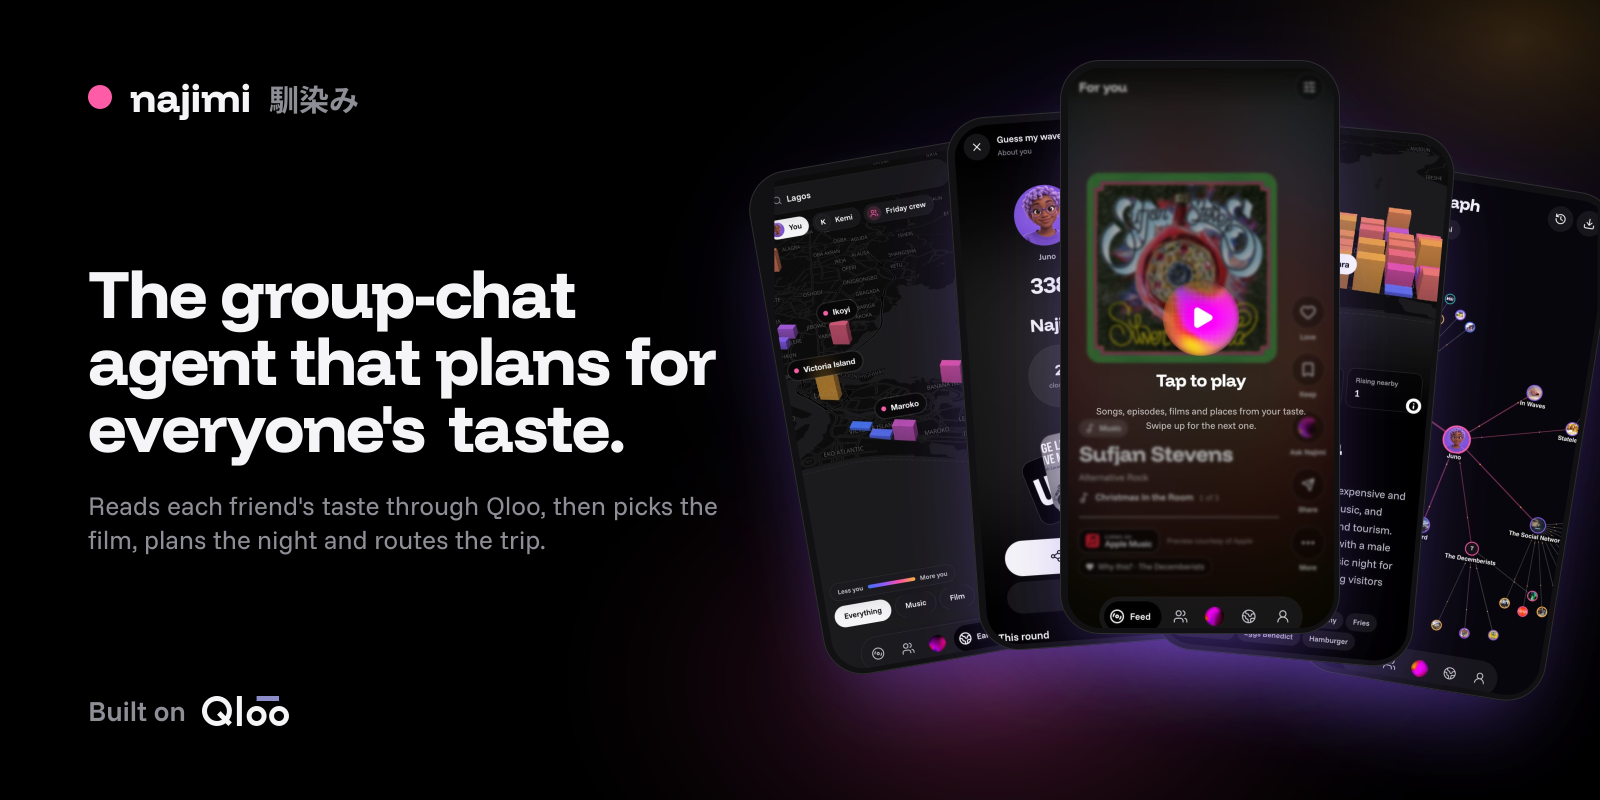
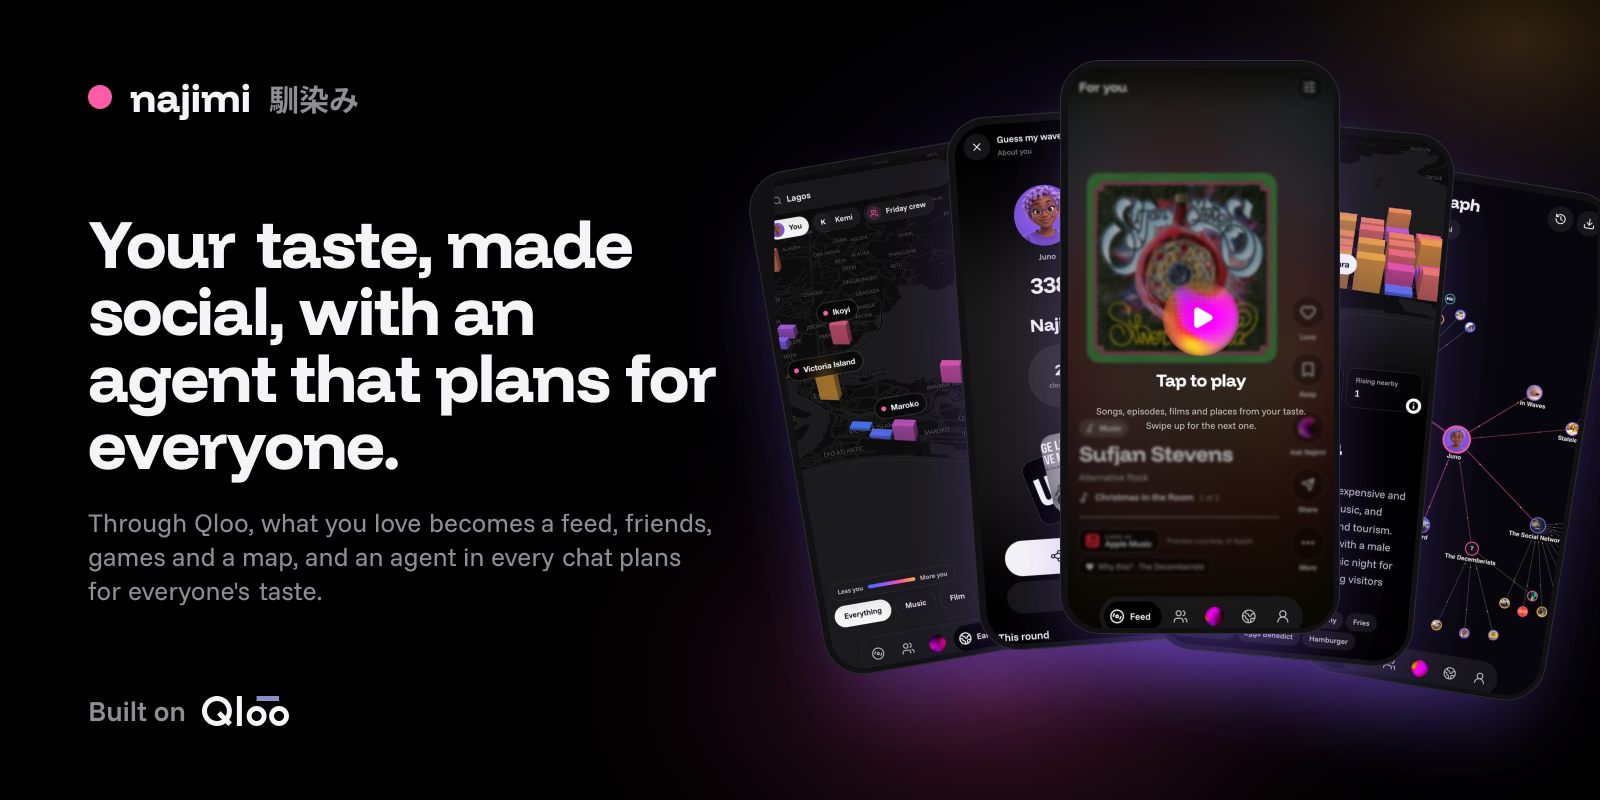
One hero for the whole product, with the agent as its engine
Motto: Make more of what you love.
Headline: Your taste, made social, with an agent that plans for everyone.
Subheadline: Through Qloo, what you love becomes a feed, friends, games and a
map, and an agent in every chat plans nights and trips for everyone's taste.

The group-chat line shrank Najimi to the judged feature; the living-taste line
that followed left the agent out. The new pair names the whole product and
keeps the theme visible. Applied to the README (banner, title, first
paragraph, demo section, hackathon rows), the banner image, the app's
metadata, landing hero, manifest, invite and Wrapped previews, the privacy
lead, the docs home and guide, and the Devpost fields and story. The README
also gains this week's data downloads and business moves, and says plainly
what the downloads can't carry. On phones the landing's words now sit inside
the ring of artwork.

Changed region(s): [[0.0312, 0.2812, 0.4688, 0.75]]

diff --git a/apps/docs/app/(home)/page.tsx b/apps/docs/app/(home)/page.tsx
@@ -157,11 +157,11 @@ export default function Home() {
         <div className="mx-auto flex max-w-3xl flex-col items-center text-center">
           <Orb size={96} label="Najimi" />
           <h1 className="mt-7 font-display text-[clamp(2.6rem,7vw,5rem)] leading-[0.98] font-extrabold tracking-[-0.03em]">
-            The group-chat agent that plans for everyone's taste.
+            Your taste, made social, with an agent that plans for everyone.
           </h1>
           <p className="mt-6 max-w-2xl text-[17px] leading-relaxed text-fd-muted-foreground sm:text-lg">
-            Najimi reads each friend's taste through Qloo, then picks the film, plans the night and
-            routes the trip, showing why each fits. These are its docs.
+            Through Qloo, what you love becomes a feed, friends, games and a map, and an agent in
+            every chat plans nights and trips for everyone's taste. These are its docs.
           </p>
           <div className="mt-8 flex flex-wrap items-center justify-center gap-3">
             <a

diff --git a/apps/web/app/[locale]/page.tsx b/apps/web/app/[locale]/page.tsx
@@ -72,11 +72,12 @@ async function Ring({
     .slice(0, 18)
   return (
     <TasteRing art={art}>
-      <div className="pointer-events-none flex w-full max-w-2xl flex-col items-center gap-6 text-center">
-        <h1 className="max-w-[16ch] font-title text-[2.1rem] leading-[1.02] md:max-w-[18ch] md:text-[4rem]">
+      {/* On a phone the words stay inside the ring's oval (about 17rem across), so no card covers them. */}
+      <div className="pointer-events-none flex w-full max-w-[17rem] flex-col items-center gap-5 text-center md:max-w-2xl md:gap-6">
+        <h1 className="font-title text-[1.9rem] leading-[1.02] md:max-w-[18ch] md:text-[4rem]">
           {title}
         </h1>
-        <p className="max-w-xl text-[15px] leading-relaxed text-text-2 md:text-lg">{subtitle}</p>
+        <p className="text-[14px] leading-relaxed text-text-2 md:max-w-xl md:text-lg">{subtitle}</p>
         <Suspense fallback={null}>
           <MainAction start={start} open={open} large />
         </Suspense>

diff --git a/packages/config/src/index.ts b/packages/config/src/index.ts
@@ -7,9 +7,9 @@ export const APP = {
   name: "Najimi",
   /** 馴染み: someone you know well. */
   meaning: "someone you know well",
-  tagline: "The group-chat agent that plans for everyone's taste.",
+  tagline: "Your taste, made social, with an agent that plans for everyone.",
   description:
-    "Najimi is an agent for your group chats: it reads each friend's taste through Qloo, then picks the film, plans the night and routes the trip, showing why each pick fits.",
+    "Najimi is a social taste app. Through Qloo, what you love becomes a feed, friends, games and a map, and Najimi, the agent in every chat, plans nights and trips for everyone's taste, showing why each pick fits.",
   /** The public repository and live URLs, once they exist; links stay hidden until then. */
   repository: null as string | null,
   url: "https://najimi.xyz" as string | null,

diff --git a/apps/docs/lib/site.ts b/apps/docs/lib/site.ts
@@ -5,9 +5,9 @@ export const SITE = {
   title: "Najimi docs",
   /** 馴染み: someone you know well. */
   meaning: "someone you know well",
-  tagline: "The group-chat agent that plans for everyone's taste.",
+  tagline: "Your taste, made social, with an agent that plans for everyone.",
   description:
-    "Najimi is an agent for your group chats: it reads each friend's taste through Qloo, then picks the film, plans the night and routes the trip, showing why each pick fits.",
+    "Najimi is a social taste app. Through Qloo, what you love becomes a feed, friends, games and a map, and Najimi, the agent in every chat, plans nights and trips for everyone's taste, showing why each pick fits.",
   url: "https://docs.najimi.xyz",
   app: "https://najimi.xyz",
   appStart: "https://najimi.xyz/start",

diff --git a/apps/web/scripts/readme-art/make.tsx b/apps/web/scripts/readme-art/make.tsx
@@ -168,11 +168,11 @@ async function banner() {
               letterSpacing: -1.5,
             }}
           >
-            The group-chat agent that plans for everyone's taste.
+            Your taste, made social, with an agent that plans for everyone.
           </div>
           <div style={{ display: "flex", fontSize: 26, color: C.muted, lineHeight: 1.3 }}>
-            Reads each friend's taste through Qloo, then picks the film, plans the night and routes
-            the trip.
+            Through Qloo, what you love becomes a feed, friends, games and a map, and an agent in
+            every chat plans for everyone's taste.
           </div>
         </div>
         <div

diff --git a/apps/web/app/[locale]/privacy/page.tsx b/apps/web/app/[locale]/privacy/page.tsx
@@ -14,7 +14,7 @@ export default function PrivacyPage() {
   return (
     <LegalPage
       title="Privacy"
-      lead="Najimi is a taste app and an agent for your group chats. This is what it keeps about you, what it sends to other services and why, who can see your taste, and how to delete all of it."
+      lead="Najimi is a social taste app with an agent in every chat. This is what it keeps about you, what it sends to other services and why, who can see your taste, and how to delete all of it."
     >
       <Part title="What Najimi keeps">
         <ul>

diff --git a/apps/web/app/[locale]/join/[token]/page.tsx b/apps/web/app/[locale]/join/[token]/page.tsx
@@ -14,7 +14,7 @@ export async function generateMetadata({ params }: Props): Promise<Metadata> {
   const images = [{ url: `/api/og/join/${token}`, width: 1200, height: 630 }]
   return {
     title: "Join the circle",
-    description: "The group-chat agent that plans for everyone's taste.",
+    description: "Your taste, made social, with an agent that plans for everyone.",
     robots: { index: false },
     openGraph: { title: "Join the circle on Najimi", images },
     twitter: { card: "summary_large_image", images },

diff --git a/apps/web/app/api/og/wrapped/[token]/[slide]/route.tsx b/apps/web/app/api/og/wrapped/[token]/[slide]/route.tsx
@@ -89,7 +89,7 @@ function Frame({ w, n, children }: { w: Wrapped; n: number; children: React.Reac
             {w.username ? `@${w.username}` : w.name}
           </div>
           <div style={{ display: "flex", fontSize: 28, color: C.muted }}>
-            The group-chat agent that plans for everyone's taste
+            Your taste, made social, with an agent that plans for everyone
           </div>
         </div>
         <div style={{ display: "flex", flexDirection: "column", alignItems: "flex-end", gap: 14 }}>

diff --git a/apps/web/components/landing/taste-ring.tsx b/apps/web/components/landing/taste-ring.tsx
@@ -129,7 +129,7 @@ export function TasteRing({ art, children }: { art: Art[]; children: ReactNode }
           ))}
         </div>
         <motion.div
-          className="absolute inset-0 flex items-center justify-center px-6"
+          className="absolute inset-0 z-10 flex items-center justify-center px-6"
           animate={{
             opacity: phase === "ring" ? 1 - fade : 0,
             y: phase === "ring" ? -morph * size.h * 0.08 : 16,

diff --git a/apps/web/app/manifest.ts b/apps/web/app/manifest.ts
@@ -6,7 +6,7 @@ export default function manifest(): MetadataRoute.Manifest {
   return {
     name: APP.name,
     short_name: APP.name,
-    description: "The group-chat agent that plans for everyone's taste.",
+    description: "Your taste, made social, with an agent that plans for everyone.",
     start_url: "/feed",
     scope: "/",
     display: "standalone",

diff --git a/README.md b/README.md
@@ -1,7 +1,7 @@
 <p align="center">
   <a href="https://najimi.xyz">
     <picture>
-      <img src=".github/assets/banner.png" alt="Najimi · Everyone's taste, one plan. The group-chat agent that plans for everyone's taste." width="100%">
+      <img src=".github/assets/banner.png" alt="Najimi · Make more of what you love. Your taste, made social, with an agent that plans for everyone." width="100%">
     </picture>
   </a>
 </p>
@@ -10,13 +10,13 @@
 
 <p align="center">
   <i>Make more of what you love.</i><br>
-  <b>A living taste: things to discover, people to meet, games to play, places to go, and plans to make.</b>
+  <b>Your taste, made social, with an agent that plans for everyone.</b>
 </p>
 
 <p align="center">
   <a href="https://najimi.xyz"><b>Open the app</b></a>
   &nbsp;·&nbsp;
-  <a href="#try-the-demo"><b>Demo</b></a>
+  <a href="#demo-video"><b>Demo</b></a>
   &nbsp;·&nbsp;
   <a href="https://docs.najimi.xyz"><b>Docs</b></a>
   &nbsp;·&nbsp;
@@ -33,7 +33,7 @@
   </a>
 </p>
 
-Najimi turns what you love into a living taste through **Qloo**. Start with three loves and explore a playable feed, people and circles, social games, an Earth map of local scenes, a graph of your influences, and picks that explain *why* they fit. Open a film for its trailer, an artist for their songs and shows, or a place for its map, hours and a ride. Then ask the agent to find something for you or plan with your friends. In a group chat, `@najimi` blends everyone's loves, scores candidates for each person, and plans a night that the whole room can see and act on. Every recommendation comes from Qloo, not a model's guess.
+Through **Qloo**, what you love becomes a feed, friends, games and a map, and an agent in every chat plans nights and trips for everyone's taste. Start with three loves (or bring your data from X, Instagram, TikTok, YouTube or Spotify): Najimi builds your taste from Qloo, then plays it back as a feed of songs, trailers, episodes and places; matches you with people and circles who share it; deals games about it; shows where your people are on an Earth map; and keeps your year in a Passport. **Najimi, the agent, is the engine.** In your own chat and in every circle it reads each person's taste from Qloo, scores every pick for every member, plans and routes the night or the trip, and asks before it calls, posts or books, showing *why* each pick fits. A general model alone would guess a crowd-pleaser; Najimi only recommends what Qloo returned for these people.
 
 Built for the **[Qloo Agentic Hackathon](https://qloo.devpost.com/)** · [how it meets the brief](#how-najimi-meets-the-hackathon). *Najimi* (馴染み) means **someone you know well**.
 
@@ -66,15 +66,15 @@ Juno and Kemi share a circle called *Friday crew*. Juno writes one line; Najimi 
   <img src=".github/assets/submission/fullwide/20-plan-route.jpg" alt="The plan page: the route on the map, calendar, Uber and Ask Najimi to book" width="49%">
 </p>
 
-## Try the demo
+## Demo video
 
 <p align="center">
   <a href="https://najimi.xyz">
-    <img src=".github/assets/demo-cover.png" alt="Open the live Najimi walkthrough" width="100%">
+    <img src=".github/assets/demo-cover.png" alt="Play: Najimi, from three loves to a night planned for two tastes" width="100%">
   </a>
 </p>
 
-Follow the proof on [najimi.xyz](https://najimi.xyz):
+The recorded walkthrough will play here. Until then, follow the proof on [najimi.xyz](https://najimi.xyz):
 
 1. Start, pick three things you love, and watch Qloo build your taste live (picks in ten kinds, your taste words, where your people cluster).
 2. Open **People**, start a circle with a friend (or send them its invite link), and ask "@najimi find us a spot tonight". The card shows each member's fit.
@@ -128,11 +128,11 @@ The brief, *Agents, but with taste*: a working application that integrates Qloo'
 
 | Requirement or criterion (verbatim) | How Najimi meets it | Where to check |
 | --- | --- | --- |
-| Stage one: viable theme fit | An agent that lives in group chats and plans for the people in them; Qloo decides every pick | [The journey above](#one-ask-two-tastes); [`packages/agent/src/instructions.ts`](packages/agent/src/instructions.ts) rule 1 |
+| Stage one: viable theme fit | A social taste app whose agent, in your chat and every circle, plans for the people in it; Qloo decides every pick | [The journey above](#one-ask-two-tastes); [`packages/agent/src/instructions.ts`](packages/agent/src/instructions.ts) rule 1 |
 | Stage one: reasonable application of the required APIs | Insights, explainability, heatmaps, location signals, per-entity scoring, compare, search, entities, tags and audiences, all live | [Built on Qloo](#built-on-qloo); [`packages/qloo/src`](packages/qloo/src) |
 | **Technological Implementation** | Rooms on Postgres with one turn per room in a pg-boss worker, every step streamed to every member over server-sent events; a cached, rate-limited, logged Qloo client; approvals bound to the asker | [`packages/agent/src/server/turn.ts`](packages/agent/src/server/turn.ts), [`packages/live`](packages/live), [`packages/qloo/src/client.ts`](packages/qloo/src/client.ts) |
 | **Design** | One coherent app: a sheet that opens any thing the same way everywhere, cards that play and route in place, stories, a feed, a globe | [najimi.xyz](https://najimi.xyz); [the docs' guide](https://docs.najimi.xyz/docs/guide) |
-| **Potential Impact** | The group chat is where friends already decide where to go and what to watch; Najimi answers there, for everyone at once, and books | [Plans and booking](https://docs.najimi.xyz/docs/guide/plans) |
+| **Potential Impact** | The group chat is where friends already decide where to go and what to watch; Najimi answers there, for everyone at once, routes the night and asks before it books. The same taste runs the feed, games, map and a business owner's weekly moves | [Plans and booking](https://docs.najimi.xyz/docs/guide/plans) |
 | **Quality of the Idea** | Qloo scores each pick for each person, so the room sees whose taste it fits and why, instead of one person's feed or a model's guess | [`groupFit`](packages/agent/src/server/tools.ts); the card in the capture above |
 
 ## Proof and evidence
@@ -143,13 +143,13 @@ The brief, *Agents, but with taste*: a working application that integrates Qloo'
 
 ### The rest of Najimi
 
-- **Your taste in a minute:** pick three loves, or bring a Letterboxd, Last.fm or Goodreads name, or X and Instagram handles. [Quickstart](https://docs.najimi.xyz/docs/guide/quickstart)
+- **Your taste in a minute:** pick three loves, or bring a Letterboxd, Last.fm or Goodreads name, X and Instagram handles, or your data from X, Instagram, TikTok, YouTube or Spotify (each platform's download page one tap away, a reminder when the file is ready, read in your browser). [Quickstart](https://docs.najimi.xyz/docs/guide/quickstart) · [Your feeds](https://docs.najimi.xyz/docs/guide/feeds)
 - **One sheet for any thing:** a film's trailer and where to watch it, an artist's songs, music videos and next concerts, a place's map, phone and socials, what people say on TikTok, YouTube and X. [Profile](https://docs.najimi.xyz/docs/guide/profile)
 - **Feed:** full-screen cards with Apple previews, trailers, podcast episodes and places, tuned like a mixing desk, one player across the app. [Feed](https://docs.najimi.xyz/docs/guide/feed)
 - **Circles and chats:** polls, the circle's soundtrack, QR invites, games with a daily drop and a weekly board. [Chats](https://docs.najimi.xyz/docs/guide/chats) · [Games](https://docs.najimi.xyz/docs/guide/games)
 - **Stories:** a photo, a video, a song, a pick or a plan for a day; replies land in your DMs. [People](https://docs.najimi.xyz/docs/guide/people)
 - **Earth and the graph:** where your taste lives, square by square; your taste as a web you can pull. [Earth](https://docs.najimi.xyz/docs/guide/earth) · [Graph](https://docs.najimi.xyz/docs/guide/graph)
-- **Business mode:** "I run a café in Yaba" becomes a plan you can share, rebuilt every Monday. [Business](https://docs.najimi.xyz/docs/guide/business)
+- **Business mode:** "I run a café in Yaba" becomes a plan you read in one screen: who its people are, then three moves for the week, each with one next step (post it, invite the partner, plan it with Najimi, play the set). Rebuilt every Monday. [Business](https://docs.najimi.xyz/docs/guide/business)
 - **Passport and Wrapped:** the year at a glance, five slides to share to Instagram Stories. [Passport](https://docs.najimi.xyz/docs/guide/passport)
 - **Your feeds:** a score for how much of your For You page is you, and accounts to follow from your taste. [Your feeds](https://docs.najimi.xyz/docs/guide/feeds)
 
@@ -194,7 +194,8 @@ A pnpm and Turborepo monorepo; every piece runs as a container on one Coolify se
 
 - The circles in the captures are test members; Najimi has had no outside testers yet.
 - Hotel booking runs through Nuitee's live key, which isn't set on najimi.xyz yet, so hotels say they aren't switched on there. Table calls are configured (an ElevenLabs voice agent over Twilio) but haven't rung a real venue yet; from Nigeria they show a US number.
-- Acting on X and Instagram for you needs your own signed-in session, which those platforms can lock; reading your taste never does.
+- Acting on X and Instagram for you needs your own signed-in session, which those platforms can lock; reading your taste never does. Google and TikTok sign-in and Connect YouTube are built and switch on once their developer apps are set up.
+- A platform's data download gives only what the platform puts in it: X's archive lists follows by account number only (connect X to read them), and TikTok's likes and watch history carry no creator, so they're left out.
 - The interface is in English; eleven other languages fall back to English where they're incomplete.
 
 ## License

diff --git a/.github/submission/devpost.md b/.github/submission/devpost.md
@@ -1,8 +1,8 @@
 # Najimi · Make more of what you love
 
-![Najimi banner showing the group-chat agent and the live app](https://raw.githubusercontent.com/Blockchain-Oracle/najimi/main/.github/assets/banner.png)
+![Najimi: Make more of what you love. Your taste, made social, with an agent that plans for everyone.](https://raw.githubusercontent.com/Blockchain-Oracle/najimi/main/.github/assets/banner.png)
 
-**Najimi turns what you love into a living taste:** a feed, people, games, places and plans. Qloo powers every match, and an agent helps you and your friends act on it. Open any pick to see *why* it fits.
+**Your taste, made social, with an agent that plans for everyone.** Through Qloo, what you love becomes a feed, friends, games and a map, and an agent in every chat plans nights and trips for everyone's taste. Open any pick to see *why* it fits.
 
 **Try it:** [najimi.xyz](https://najimi.xyz) · **Code:** [GitHub](https://github.com/Blockchain-Oracle/najimi) · **Docs:** [docs.najimi.xyz](https://docs.najimi.xyz) · **Qloo integration:** [API map](https://docs.najimi.xyz/docs/qloo)
 
@@ -108,8 +108,8 @@ Every chat is a room. A message is saved and announced on the room's live topic;
 *Agents, but with taste*: Najimi is an application built with an agent framework (the AI SDK's tool loop), with Qloo's API as its instrument, and its first rule is *Qloo or nothing*: every recommendation comes from a Qloo result in that chat.
 
 - **Technological Implementation:** rooms on Postgres, one agent turn per room in a pg-boss worker, every step streamed to every member over server-sent events; a cached, rate-limited, logged Qloo client; actions in someone's name approved only by the person who asked.
-- **Design:** one coherent app, where a single sheet opens any thing the same way everywhere and cards play, route and book in place.
-- **Potential Impact:** the group chat is where friends already decide; Najimi answers there, for everyone at once, and can book.
+- **Design:** one coherent app across the feed, people, games, the map and the agent, where a single sheet opens any thing the same way everywhere and cards play and route in place.
+- **Potential Impact:** the group chat is where friends already decide; Najimi answers there, for everyone at once, routes the night and asks before it books. The same taste runs the feed, games, map and a business owner's weekly moves.
 - **Quality of the Idea:** Qloo scores each pick for each person, so the room sees whose taste it fits and why, instead of one person's feed or a model's guess.
 
 ## How we built it
